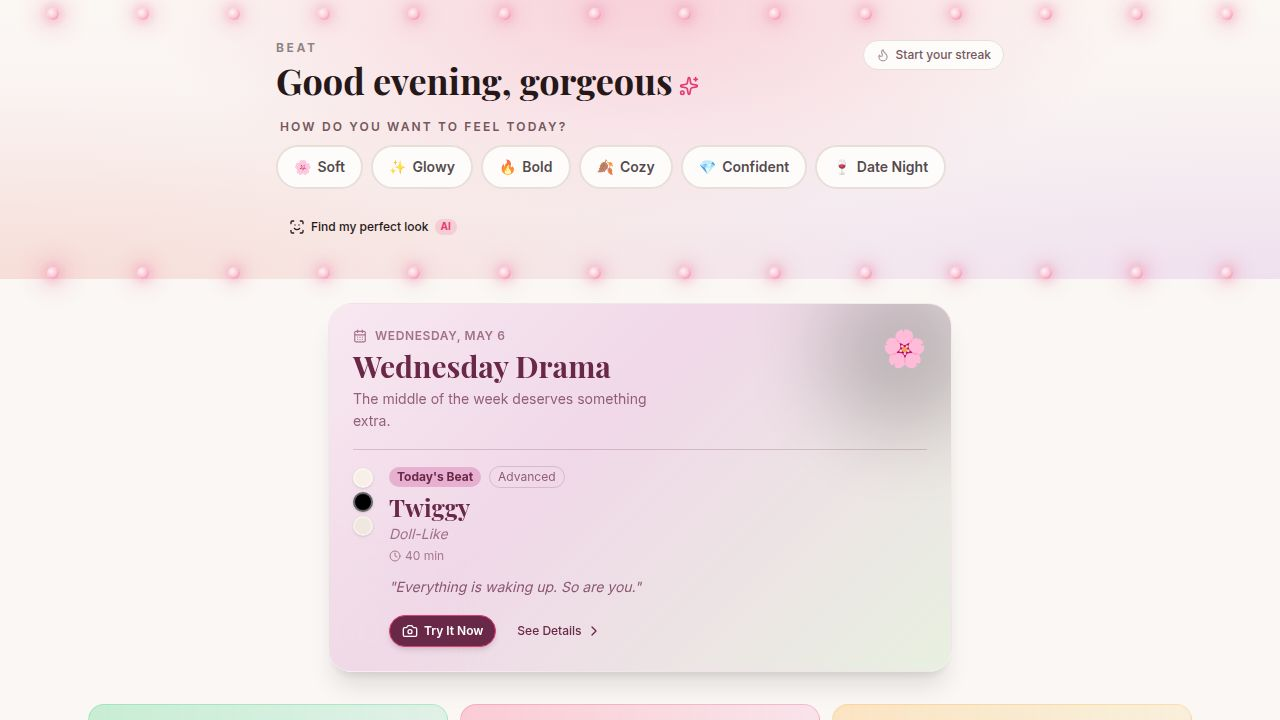
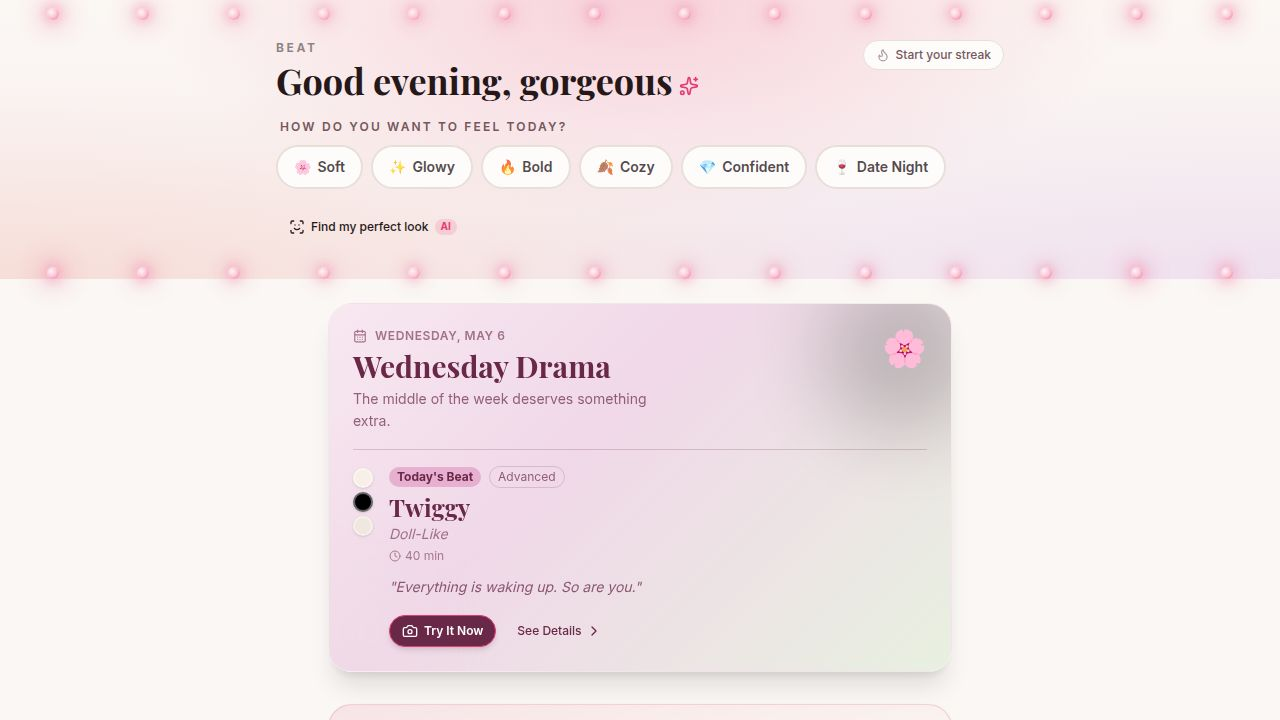
Update archetype test name and improve readability of results
Rename the archetype quiz to "The Iola archetype test", fix text readability on dark gradients with a new helper function, and add validation to stored archetype values.

Replit-Commit-Author: Agent
Replit-Commit-Session-Id: d843f0ff-b3de-404b-8c3c-2f1fb5c46807
Replit-Commit-Checkpoint-Type: full_checkpoint
Replit-Commit-Event-Id: e79c8d90-55ce-4fb0-aa37-8171901f3de7
Replit-Commit-Screenshot-Url: https://storage.googleapis.com/screenshot-production-us-central1/44441e4f-05dd-4915-bf25-98c49f6c40f5/d843f0ff-b3de-404b-8c3c-2f1fb5c46807/KsyTL0O
Replit-Helium-Checkpoint-Created: true

Changed region(s): [[0.0625, 0.9778, 0.4688, 1.0], [0.625, 0.9778, 0.9375, 1.0]]

diff --git a/artifacts/glamr/src/pages/Archetype.tsx b/artifacts/glamr/src/pages/Archetype.tsx
@@ -8,6 +8,7 @@ import {
   ARCHETYPES,
   type ArchetypeId,
   lookMatchesArchetype,
+  pickFg,
 } from "../lib/archetypes";
 import { useArchetype } from "../hooks/useArchetype";
 import { allCompleteLooks, allEyeLooks, allLipLooks } from "../lib/looks";
@@ -64,15 +65,18 @@ export default function ArchetypePage() {
   return (
     <div className="min-h-screen bg-background text-foreground">
       <div className="max-w-3xl mx-auto px-5 sm:px-8 py-10">
-        <div className="flex items-center justify-between mb-6">
+        <div className="flex items-center justify-between mb-2">
           <Link href="/" className="text-xs uppercase tracking-[0.18em] text-muted-foreground hover:text-foreground transition-colors">
             ← Home
           </Link>
           <div className="flex items-center gap-2 text-xs uppercase tracking-[0.18em] text-primary">
             <Sparkles className="w-3.5 h-3.5" />
-            Archetype
+            Iola
           </div>
         </div>
+        <h1 className="font-serif text-2xl sm:text-3xl font-bold tracking-tight mb-6">
+          The Iola archetype test
+        </h1>
 
         {view === "quiz" && q && (
           <QuizView
@@ -233,34 +237,46 @@ function ResultView({
       animate={{ opacity: 1, y: 0 }}
       transition={{ duration: 0.5 }}
     >
-      {/* Hero */}
-      <div className="relative overflow-hidden rounded-3xl border border-border p-7 sm:p-10 mb-8"
-        style={{
-          background: `linear-gradient(135deg, ${arch.palette[0]} 0%, ${arch.palette[2]} 100%)`,
-        }}
-      >
-        <div className="absolute -top-10 -right-10 w-48 h-48 rounded-full opacity-30 blur-3xl"
-             style={{ background: arch.palette[3] }} />
-        <div className="relative z-10">
-          <div className="text-[10px] uppercase tracking-[0.22em] mb-2 text-black/60">
-            You are
+      {/* Hero — pick text colour from gradient luminance so dark
+          archetype palettes (Siren / Rebel / Muse) stay readable. */}
+      {(() => {
+        const fg = pickFg(arch.palette[1] ?? arch.palette[0]);
+        const isLight = fg === "light"; // light text on dark bg
+        const heading = isLight ? "text-white" : "text-black/90";
+        const sub = isLight ? "text-white/85" : "text-black/80";
+        const muted = isLight ? "text-white/70" : "text-black/75";
+        const eyebrow = isLight ? "text-white/65" : "text-black/60";
+        const pillBg = isLight ? "bg-white/15 text-white/90" : "bg-black/15 text-black/85";
+        return (
+          <div className="relative overflow-hidden rounded-3xl border border-border p-7 sm:p-10 mb-8"
+            style={{
+              background: `linear-gradient(135deg, ${arch.palette[0]} 0%, ${arch.palette[2]} 100%)`,
+            }}
+          >
+            <div className="absolute -top-10 -right-10 w-48 h-48 rounded-full opacity-30 blur-3xl"
+                 style={{ background: arch.palette[3] }} />
+            <div className="relative z-10">
+              <div className={`text-[10px] uppercase tracking-[0.22em] mb-2 ${eyebrow}`}>
+                You are
+              </div>
+              <h2 className={`font-serif text-4xl sm:text-6xl font-bold leading-none mb-3 ${heading}`}>
+                {arch.name}
+              </h2>
+              <p className={`text-base sm:text-lg italic mb-5 ${sub}`}>{arch.tagline}</p>
+              <p className={`text-sm sm:text-base max-w-prose leading-relaxed ${muted}`}>
+                {arch.description}
+              </p>
+              <div className="flex flex-wrap gap-2 mt-5">
+                {arch.vibes.map((v) => (
+                  <span key={v} className={`text-[11px] uppercase tracking-wider px-3 py-1 rounded-full backdrop-blur-sm ${pillBg}`}>
+                    {v}
+                  </span>
+                ))}
+              </div>
+            </div>
           </div>
-          <h1 className="font-serif text-4xl sm:text-6xl font-bold leading-none mb-3 text-black/90">
-            {arch.name}
-          </h1>
-          <p className="text-base sm:text-lg italic text-black/80 mb-5">{arch.tagline}</p>
-          <p className="text-sm sm:text-base text-black/75 max-w-prose leading-relaxed">
-            {arch.description}
-          </p>
-          <div className="flex flex-wrap gap-2 mt-5">
-            {arch.vibes.map((v) => (
-              <span key={v} className="text-[11px] uppercase tracking-wider px-3 py-1 rounded-full bg-black/15 text-black/85 backdrop-blur-sm">
-                {v}
-              </span>
-            ))}
-          </div>
-        </div>
-      </div>
+        );
+      })()}
 
       {/* Palette */}
       <section className="mb-10">

diff --git a/artifacts/glamr/src/components/ArchetypeCallout.tsx b/artifacts/glamr/src/components/ArchetypeCallout.tsx
@@ -2,7 +2,7 @@ import { Link } from "wouter";
 import { motion } from "framer-motion";
 import { Sparkles, ArrowRight } from "lucide-react";
 import { useArchetype } from "../hooks/useArchetype";
-import { ARCHETYPES } from "../lib/archetypes";
+import { ARCHETYPES, pickFg } from "../lib/archetypes";
 
 /**
  * Home-page entry point for the archetype quiz.
@@ -41,7 +41,7 @@ export function ArchetypeCallout() {
                   Personalise the app
                 </div>
                 <h3 className="font-serif text-xl sm:text-2xl font-bold leading-tight mb-1">
-                  Find your beauty archetype
+                  The Iola archetype test
                 </h3>
                 <p className="text-sm text-muted-foreground leading-snug">
                   5 quick questions. We'll tune your colours, tips and look
@@ -56,6 +56,10 @@ export function ArchetypeCallout() {
     );
   }
 
+  // Pick text colour by gradient luminance — dark archetypes (Siren /
+  // Rebel / Muse) need white text; light ones can stay on black.
+  const fg = pickFg(arch.palette[1] ?? arch.palette[0]);
+  const isLight = fg === "light";
   return (
     <div className="max-w-2xl mx-auto px-6 mb-8">
       <Link href="/archetype">
@@ -69,15 +73,17 @@ export function ArchetypeCallout() {
             background: `linear-gradient(135deg, ${arch.palette[0]} 0%, ${arch.palette[2]} 100%)`,
           }}
         >
-          <div className="p-5 sm:p-6 flex items-center gap-4">
-            <div className="flex-1 min-w-0 text-black/85">
-              <div className="text-[10px] uppercase tracking-[0.22em] text-black/55 mb-1">
-                You are
+          <div className={`p-5 sm:p-6 flex items-center gap-4 ${isLight ? "text-white" : "text-black/85"}`}>
+            <div className="flex-1 min-w-0">
+              <div className={`text-[10px] uppercase tracking-[0.22em] mb-1 ${isLight ? "text-white/65" : "text-black/55"}`}>
+                Iola says you are
               </div>
               <h3 className="font-serif text-2xl sm:text-3xl font-bold leading-none mb-1">
                 {arch.name}
               </h3>
-              <p className="text-sm italic text-black/70 truncate">{arch.tagline}</p>
+              <p className={`text-sm italic truncate ${isLight ? "text-white/80" : "text-black/70"}`}>
+                {arch.tagline}
+              </p>
               <div className="flex gap-1.5 mt-3">
                 {arch.palette.map((hex) => (
                   <div key={hex} className="w-5 h-5 rounded-full ring-2 ring-white/40"
@@ -85,7 +91,7 @@ export function ArchetypeCallout() {
                 ))}
               </div>
             </div>
-            <ArrowRight className="w-5 h-5 text-black/70 shrink-0" />
+            <ArrowRight className={`w-5 h-5 shrink-0 ${isLight ? "text-white/80" : "text-black/70"}`} />
           </div>
         </motion.div>
       </Link>

diff --git a/artifacts/glamr/src/lib/archetypes.ts b/artifacts/glamr/src/lib/archetypes.ts
@@ -161,3 +161,22 @@ export function lookMatchesArchetype(look: { mood: string }, archetype: Archetyp
   const m = look.mood.toLowerCase();
   return archetype.moodMatchers.some((kw) => m.includes(kw));
 }
+
+/**
+ * Pick a readable foreground colour ("light" or "dark") for a given hex
+ * background. Uses the WCAG-style relative-luminance formula so dark
+ * archetype palettes (siren, rebel, muse) get white text and light ones
+ * (romantic, icon, naturalist) get black text. Without this, the result
+ * hero and home callout were nearly unreadable on the dark archetypes.
+ */
+export function pickFg(hex: string): "light" | "dark" {
+  const m = /^#?([0-9a-fA-F]{6})$/.exec(hex);
+  if (!m) return "dark";
+  const v = parseInt(m[1], 16);
+  const r = ((v >> 16) & 0xff) / 255;
+  const g = ((v >> 8) & 0xff) / 255;
+  const b = (v & 0xff) / 255;
+  const lin = (c: number) => (c <= 0.03928 ? c / 12.92 : Math.pow((c + 0.055) / 1.055, 2.4));
+  const L = 0.2126 * lin(r) + 0.7152 * lin(g) + 0.0722 * lin(b);
+  return L > 0.5 ? "dark" : "light";
+}
